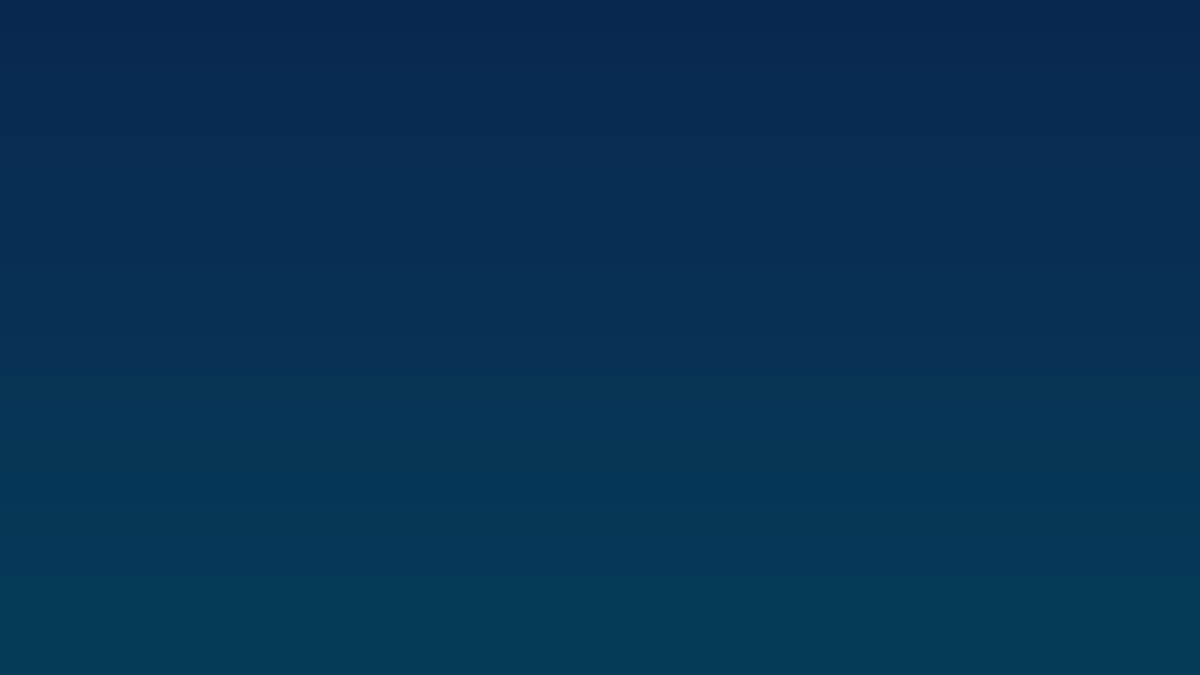
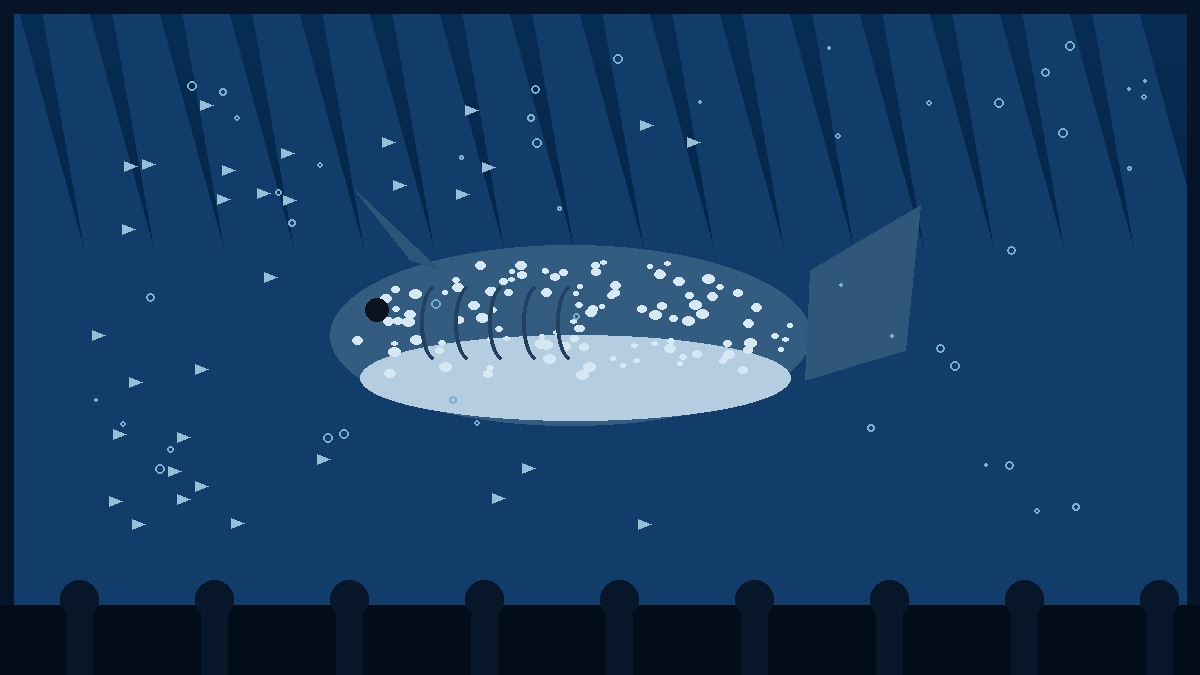
okinawa: day cards 改用單欄 16:9 大圖

diff --git a/okinawa-2026-11-new.html b/okinawa-2026-11-new.html
@@ -46,8 +46,9 @@ body{font-family:'Noto Sans TC','PingFang TC','Microsoft JhengHei',sans-serif;ba
 .timeline-tags span{padding:3px 10px;font-size:11px;border-radius:10px;background:rgba(255,255,255,.06);color:rgba(255,255,255,.45)}
 .timeline-card{background:rgba(255,255,255,.03);border-radius:16px;overflow:hidden;border:1px solid rgba(255,255,255,.06);transition:all .4s;cursor:pointer}
 .timeline-card:hover{background:rgba(255,255,255,.06);border-color:rgba(255,255,255,.12);transform:translateX(4px)}
-.timeline-card a{display:grid;grid-template-columns:280px 1fr;text-decoration:none;color:inherit;min-height:180px}
-.timeline-card-img{overflow:hidden;position:relative;min-height:180px;background:linear-gradient(135deg,#1a5276,#2980b9)}
+.timeline-card a{display:grid;grid-template-columns:1fr;text-decoration:none;color:inherit;min-height:180px}
+.timeline-card-img{overflow:hidden;position:relative;aspect-ratio:16/9;min-height:0;background:linear-gradient(135deg,#1a5276,#2980b9)}
+.timeline-card-img img{width:100%;height:100%;object-fit:cover;display:block}
 .timeline-card-img .placeholder{width:100%;height:100%;display:flex;align-items:center;justify-content:center;font-size:48px;opacity:.3}
 .timeline-card-text{padding:24px 28px;display:flex;flex-direction:column;justify-content:center}
 .timeline-card-text .label{font-size:11px;letter-spacing:2px;color:rgba(255,200,150,.5);margin-bottom:6px}
@@ -73,7 +74,7 @@ body{font-family:'Noto Sans TC','PingFang TC','Microsoft JhengHei',sans-serif;ba
   .timeline-dot{left:16px;width:14px;height:14px}
   .timeline-dot-inner{width:5px;height:5px}
   .timeline-card a{grid-template-columns:1fr}
-  .timeline-card-img{height:200px;min-height:auto}
+  .timeline-card-img{height:auto;min-height:0}
   .timeline-card-text{padding:18px 20px}
   .feature-grid{grid-template-columns:1fr}
   .feature-card-img{height:180px}

diff --git a/okinawa-2026-11.html b/okinawa-2026-11.html
@@ -46,8 +46,9 @@ body{font-family:'Noto Sans TC','PingFang TC','Microsoft JhengHei',sans-serif;ba
 .timeline-tags span{padding:3px 10px;font-size:11px;border-radius:10px;background:rgba(255,255,255,.06);color:rgba(255,255,255,.45)}
 .timeline-card{background:rgba(255,255,255,.03);border-radius:16px;overflow:hidden;border:1px solid rgba(255,255,255,.06);transition:all .4s;cursor:pointer}
 .timeline-card:hover{background:rgba(255,255,255,.06);border-color:rgba(255,255,255,.12);transform:translateX(4px)}
-.timeline-card a{display:grid;grid-template-columns:280px 1fr;text-decoration:none;color:inherit;min-height:180px}
-.timeline-card-img{overflow:hidden;position:relative;min-height:180px;background:linear-gradient(135deg,#1a5276,#2980b9)}
+.timeline-card a{display:grid;grid-template-columns:1fr;text-decoration:none;color:inherit;min-height:180px}
+.timeline-card-img{overflow:hidden;position:relative;aspect-ratio:16/9;min-height:0;background:linear-gradient(135deg,#1a5276,#2980b9)}
+.timeline-card-img img{width:100%;height:100%;object-fit:cover;display:block}
 .timeline-card-img .placeholder{width:100%;height:100%;display:flex;align-items:center;justify-content:center;font-size:48px;opacity:.3}
 .timeline-card-text{padding:24px 28px;display:flex;flex-direction:column;justify-content:center}
 .timeline-card-text .label{font-size:11px;letter-spacing:2px;color:rgba(255,200,150,.5);margin-bottom:6px}
@@ -73,7 +74,7 @@ body{font-family:'Noto Sans TC','PingFang TC','Microsoft JhengHei',sans-serif;ba
   .timeline-dot{left:16px;width:14px;height:14px}
   .timeline-dot-inner{width:5px;height:5px}
   .timeline-card a{grid-template-columns:1fr}
-  .timeline-card-img{height:200px;min-height:auto}
+  .timeline-card-img{height:auto;min-height:0}
   .timeline-card-text{padding:18px 20px}
   .feature-grid{grid-template-columns:1fr}
   .feature-card-img{height:180px}
